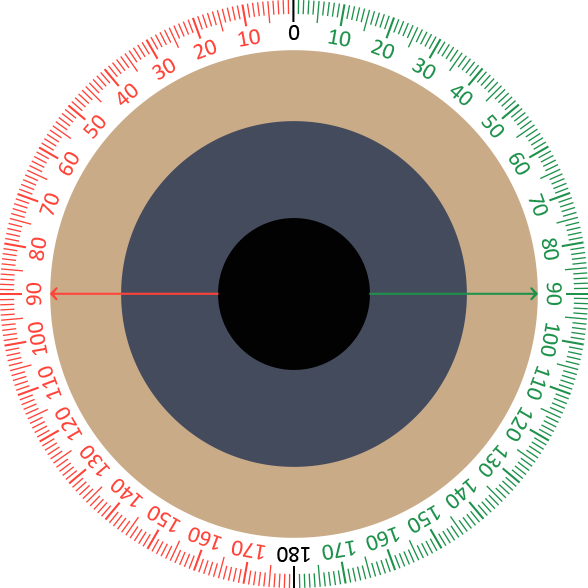
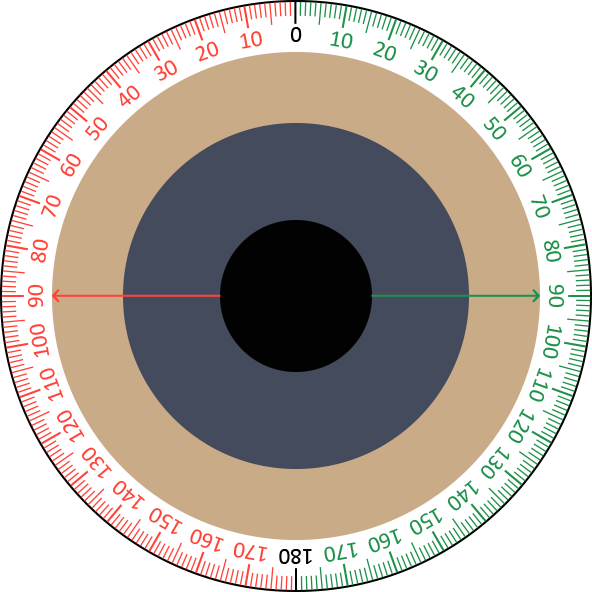
New assets and code

diff --git a/main.css b/main.css
@@ -46,6 +46,7 @@ table {
 
 html {
 	height: 100%;
+	overflow: hidden;
 }
 
 body {
@@ -58,23 +59,24 @@ body {
 }
 
 .wrapper {
-	height: 90%;
-	width: 90%;
+	height: 100%;
+	width: 100%;
+	position: relative;
+	margin: auto;
 }
 
 #attack_disc {
-	background-image: url('images/bg.jpg');
+	background-image: url('images/1.png');
 	background-size: contain;
 	background-repeat: no-repeat;
 	background-position: center;
-	width: 90%;
-	height: 90%;
-	max-width: 960px;
-	margin: 0 auto;
-	display: flex;
-	flex-direction: column;
-	justify-content: center;
-	align-items: center;
+	width: 100%;
+	max-width: 1123px;
+	height: 100%;
+	max-height: 1123px;
+	margin: auto;
+  	position: absolute;
+  	top: 0; left: 0; bottom: 0; right: 0;
 }
 
 #course_disc {
@@ -82,12 +84,13 @@ body {
 	background-size: contain;
 	background-repeat: no-repeat;
 	background-position: center;
-	width: 77.2%;
-	height: 77.2%;
-	display: flex;
-	flex-direction: column;
-	justify-content: center;
-	align-items: center;
+	width: 80%;
+	max-width: 867px;
+	height: 80%;
+	max-height: 867px;
+	margin: auto;
+  	position: absolute;
+  	top: 0; left: 0; bottom: 0; right: 0;
 }
 
 #aob_disc {
@@ -95,7 +98,13 @@ body {
 	background-size: contain;
 	background-repeat: no-repeat;
 	background-position: center;
-	width: 67.82%;
-	height: 67.82%;
-	margin: 0 auto;
+	width: 60%;
+	max-width: 592px;
+	height: 60%;
+	max-height: 592px;
+	margin: auto;
+  	position: absolute;
+  	top: 0; left: 0; bottom: 0; right: 0;
+    transform-origin:50% 50%;
+    border-radius:50%;
 }

diff --git a/main.js b/main.js
@@ -64,3 +64,66 @@
   init();
 
 }).call(this);
+
+(function() {
+  var init, rotate, start, stop,
+    active = false,
+    angle = 0,
+    rotation = 0,
+    startAngle = 0,
+    center = {
+      x: 0,
+      y: 0
+    },
+    R2D = 180 / Math.PI,
+    rot = document.getElementById('aob_disc');
+
+  init = function() {
+    rot.addEventListener("mousedown", start, false);
+    $(document).bind('mousemove', function(event) {
+      if (active === true) {
+        event.preventDefault();
+        rotate(event);
+      }
+    });
+    $(document).bind('mouseup', function(event) {
+      event.preventDefault();
+      stop(event);
+    });
+  };
+
+  start = function(e) {
+    e.preventDefault();
+    var bb = this.getBoundingClientRect(),
+      t = bb.top,
+      l = bb.left,
+      h = bb.height,
+      w = bb.width,
+      x, y;
+    center = {
+      x: l + (w / 2),
+      y: t + (h / 2)
+    };
+    x = e.clientX - center.x;
+    y = e.clientY - center.y;
+    startAngle = R2D * Math.atan2(y, x);
+    return active = true;
+  };
+
+  rotate = function(e) {
+    e.preventDefault();
+    var x = e.clientX - center.x,
+      y = e.clientY - center.y,
+      d = R2D * Math.atan2(y, x);
+    rotation = d - startAngle;
+    return rot.style.webkitTransform = "rotate(" + (angle + rotation) + "deg)";
+  };
+
+  stop = function() {
+    angle += rotation;
+    return active = false;
+  };
+
+  init();
+
+}).call(this);

diff --git a/index.html b/index.html
@@ -8,13 +8,9 @@
 </head>
 <body>
 <div class="wrapper">
-	<div id="attack_disc">
-		<div id="course_disc">
-			<div id="aob_disc">
-			</div>
-		</div>
-
-	</div>
+	<div id="attack_disc"></div>
+	<div id="course_disc"></div>
+	<div id="aob_disc"></div>
 </div>
 <script type="text/javascript" src="main.js"></script>
 </body>
